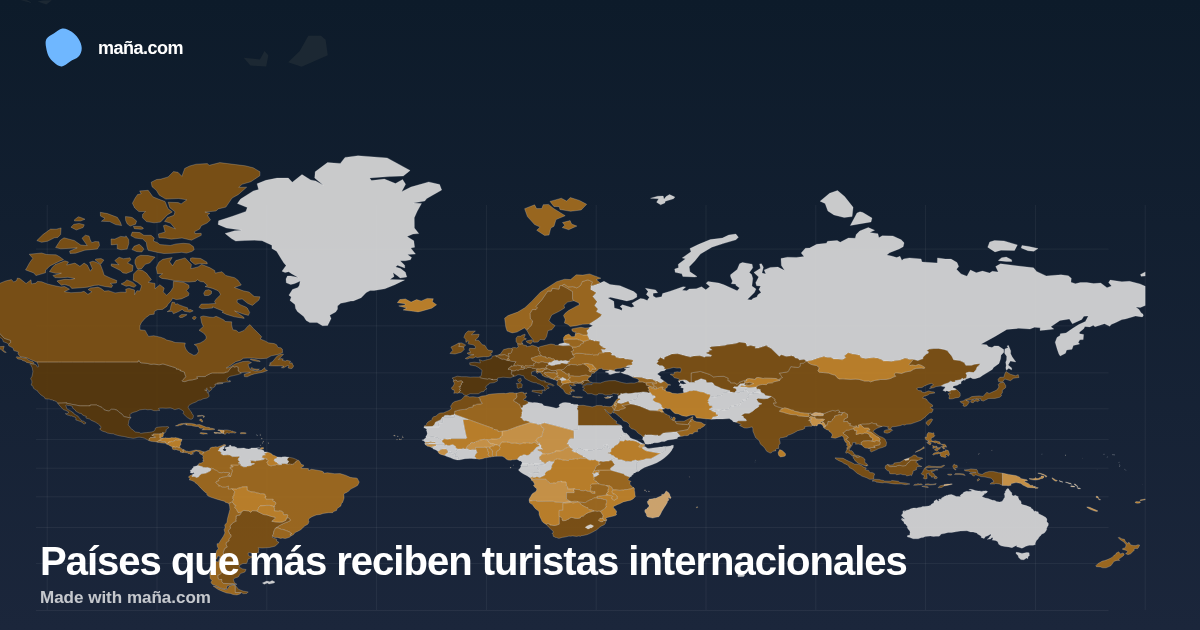
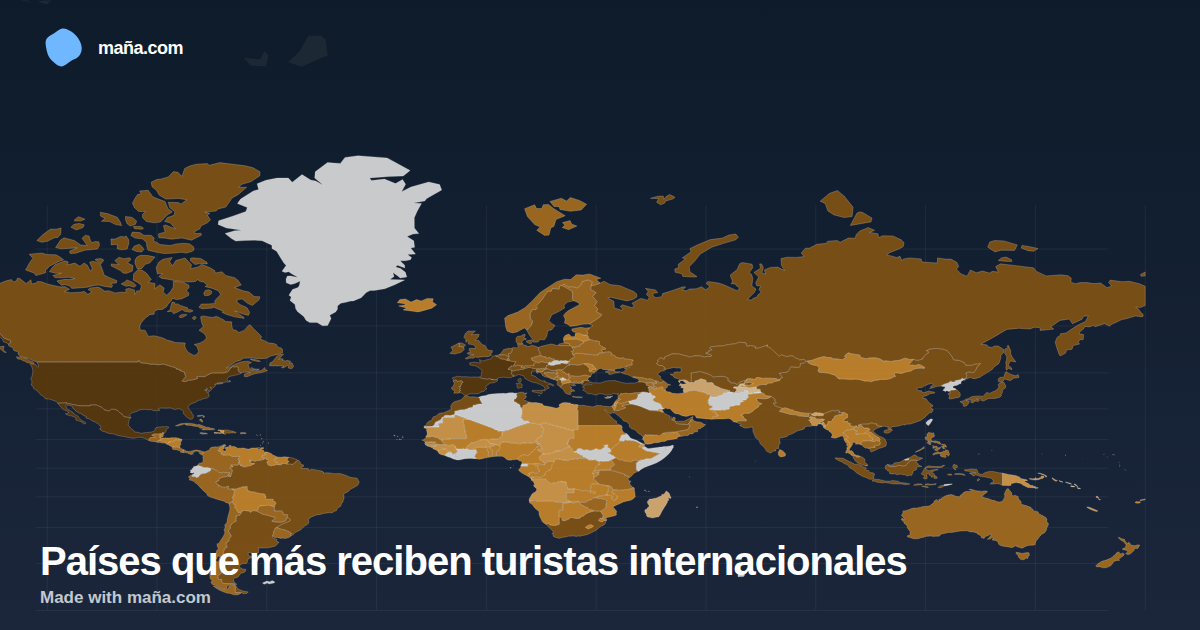
chore: generar landings estaticas y OG cards de mapas

diff --git a/gallery/tourism-arrivals-world/index.html b/gallery/tourism-arrivals-world/index.html
@@ -4,12 +4,12 @@
 <meta charset="utf-8">
 <meta name="viewport" content="width=device-width, initial-scale=1">
 <title>Países que más reciben turistas internacionales — Maña Maps</title>
-<meta name="description" content="Mapa coroplético mundial del número de turistas internacionales que recibe cada país, con datos de UN Tourism (OMT): Francia encabeza la lista con unos 100 millones de llegadas, seguida de España (85,2 millones) y Estados Unidos (66,3 millones). El dato de cada país corresponde al último año disponible entre 2019 y 2023, con la paleta ámbar ordenada por volumen de llegadas en escala logarítmica. El primer mapa de turismo de la galería: 165 países y territorios con cifras publicadas.">
+<meta name="description" content="Mapa coroplético mundial del número de turistas internacionales que recibe cada país, con datos de UN Tourism (OMT): Francia encabeza la lista con unos 102 millones de llegadas, seguida de España (93,8 millones) y Estados Unidos (72,4 millones). El dato de cada país corresponde al último año disponible entre 2019 y 2024, con la paleta ámbar ordenada por volumen de llegadas en escala logarítmica. El primer mapa de turismo de la galería: 185 países y territorios con cifras publicadas.">
 <link rel="canonical" href="https://maña.com/gallery/tourism-arrivals-world/">
 <meta property="og:type" content="article">
 <meta property="og:url" content="https://maña.com/gallery/tourism-arrivals-world/">
 <meta property="og:title" content="Países que más reciben turistas internacionales">
-<meta property="og:description" content="Mapa coroplético mundial del número de turistas internacionales que recibe cada país, con datos de UN Tourism (OMT): Francia encabeza la lista con unos 100 millones de llegadas, seguida de España (85,2 millones) y Estados Unidos (66,3 millones). El dato de cada país corresponde al último año disponible entre 2019 y 2023, con la paleta ámbar ordenada por volumen de llegadas en escala logarítmica. El primer mapa de turismo de la galería: 165 países y territorios con cifras publicadas.">
+<meta property="og:description" content="Mapa coroplético mundial del número de turistas internacionales que recibe cada país, con datos de UN Tourism (OMT): Francia encabeza la lista con unos 102 millones de llegadas, seguida de España (93,8 millones) y Estados Unidos (72,4 millones). El dato de cada país corresponde al último año disponible entre 2019 y 2024, con la paleta ámbar ordenada por volumen de llegadas en escala logarítmica. El primer mapa de turismo de la galería: 185 países y territorios con cifras publicadas.">
 <meta property="og:image" content="https://maña.com/og-cards/tourism-arrivals-world.png">
 <meta property="og:image:width" content="1200">
 <meta property="og:image:height" content="630">
@@ -17,13 +17,13 @@
 <meta property="og:site_name" content="Maña Maps">
 <meta name="twitter:card" content="summary_large_image">
 <meta name="twitter:title" content="Países que más reciben turistas internacionales">
-<meta name="twitter:description" content="Mapa coroplético mundial del número de turistas internacionales que recibe cada país, con datos de UN Tourism (OMT): Francia encabeza la lista con unos 100 millones de llegadas, seguida de España (85,2 millones) y Estados Unidos (66,3 millones). El dato de cada país corresponde al último año disponible entre 2019 y 2023, con la paleta ámbar ordenada por volumen de llegadas en escala logarítmica. El primer mapa de turismo de la galería: 165 países y territorios con cifras publicadas.">
+<meta name="twitter:description" content="Mapa coroplético mundial del número de turistas internacionales que recibe cada país, con datos de UN Tourism (OMT): Francia encabeza la lista con unos 102 millones de llegadas, seguida de España (93,8 millones) y Estados Unidos (72,4 millones). El dato de cada país corresponde al último año disponible entre 2019 y 2024, con la paleta ámbar ordenada por volumen de llegadas en escala logarítmica. El primer mapa de turismo de la galería: 185 países y territorios con cifras publicadas.">
 <meta name="twitter:image" content="https://maña.com/og-cards/tourism-arrivals-world.png">
 <meta name="robots" content="index, follow">
 <link rel="preconnect" href="https://fonts.googleapis.com">
 <link rel="preconnect" href="https://fonts.gstatic.com" crossorigin>
 <link rel="stylesheet" href="https://fonts.googleapis.com/css2?family=DM+Sans:wght@400;500;700;900&display=swap">
-<script type="application/ld+json">{"@context":"https://schema.org","@type":"Dataset","name":"Países que más reciben turistas internacionales","description":"Mapa coroplético mundial del número de turistas internacionales que recibe cada país, con datos de UN Tourism (OMT): Francia encabeza la lista con unos 100 millones de llegadas, seguida de España (85,2 millones) y Estados Unidos (66,3 millones). El dato de cada país corresponde al último año disponible entre 2019 y 2023, con la paleta ámbar ordenada por volumen de llegadas en escala logarítmica. El primer mapa de turismo de la galería: 165 países y territorios con cifras publicadas.","url":"https://maña.com/gallery/tourism-arrivals-world/","spatialCoverage":{"@type":"Place","name":"Mundo"},"creator":{"@type":"Organization","name":"Maña Maps","url":"https://maña.com"},"source":"UN Tourism (OMT) — Base de datos de estadísticas de turismo, indicador INBD_TRIP_TOTL_TOTL_TOUR (inbound trips, descarga de diciembre de 2025) + World Tourism Barometer 2023. Geometrías: Natural Earth (vía population-by-country). https://www.unwto.org/tourism-statistics · 2023-12-31","dateModified":"2026-10-13","keywords":["Turismo","Economía","Geografía"]}</script>
+<script type="application/ld+json">{"@context":"https://schema.org","@type":"Dataset","name":"Países que más reciben turistas internacionales","description":"Mapa coroplético mundial del número de turistas internacionales que recibe cada país, con datos de UN Tourism (OMT): Francia encabeza la lista con unos 102 millones de llegadas, seguida de España (93,8 millones) y Estados Unidos (72,4 millones). El dato de cada país corresponde al último año disponible entre 2019 y 2024, con la paleta ámbar ordenada por volumen de llegadas en escala logarítmica. El primer mapa de turismo de la galería: 185 países y territorios con cifras publicadas.","url":"https://maña.com/gallery/tourism-arrivals-world/","spatialCoverage":{"@type":"Place","name":"Mundo"},"creator":{"@type":"Organization","name":"Maña Maps","url":"https://maña.com"},"source":"UN Tourism (OMT) — Base de datos de estadísticas de turismo, indicador INBD_TRIP_TOTL_TOTL_TOUR (inbound trips, descarga de diciembre de 2025) + World Tourism Barometer (enero 2026, datos 2024). Geometrías: Natural Earth (vía population-by-country). https://www.unwto.org/tourism-statistics · 2024-12-31","dateModified":"2026-10-14","keywords":["Turismo","Economía","Geografía"]}</script>
 <style>
   :root{--sky:#0ea5e9;--ink:#111827;--muted:#6b7280;--line:#e5e7eb}
   *{box-sizing:border-box}
@@ -66,15 +66,15 @@
   </header>
   <main class="wrap">
     <h1>Países que más reciben turistas internacionales</h1>
-    <p class="lede">Mapa coroplético mundial del número de turistas internacionales que recibe cada país, con datos de UN Tourism (OMT): Francia encabeza la lista con unos 100 millones de llegadas, seguida de España (85,2 millones) y Estados Unidos (66,3 millones). El dato de cada país corresponde al último año disponible entre 2019 y 2023, con la paleta ámbar ordenada por volumen de llegadas en escala logarítmica. El primer mapa de turismo de la galería: 165 países y territorios con cifras publicadas.</p>
+    <p class="lede">Mapa coroplético mundial del número de turistas internacionales que recibe cada país, con datos de UN Tourism (OMT): Francia encabeza la lista con unos 102 millones de llegadas, seguida de España (93,8 millones) y Estados Unidos (72,4 millones). El dato de cada país corresponde al último año disponible entre 2019 y 2024, con la paleta ámbar ordenada por volumen de llegadas en escala logarítmica. El primer mapa de turismo de la galería: 185 países y territorios con cifras publicadas.</p>
     <a class="shot" href="/gallery/?slug=tourism-arrivals-world"><img src="/og-cards/tourism-arrivals-world.png" alt="Países que más reciben turistas internacionales" width="1200" height="630"></a>
-    <p class="meta">205 elementos · 2026-10-13</p>
+    <p class="meta">205 elementos · 2026-10-14</p>
     <div class="cta">
       <a class="btn btn-primary" href="/map/" onclick="if(window.trackEvent)window.trackEvent('cta_click',{target:'create_map',source:'static_map'})">Crea tu mapa gratis</a>
       <a class="btn btn-ghost" href="/gallery/?slug=tourism-arrivals-world" onclick="if(window.trackEvent)window.trackEvent('cta_click',{target:'interactive',source:'static_map'})">Abrir mapa interactivo</a>
       <a class="btn btn-ghost" href="https://twitter.com/intent/tweet?text=Pa%C3%ADses%20que%20m%C3%A1s%20reciben%20turistas%20internacionales%20%E2%80%94%20v%C3%ADa%20Ma%C3%B1a%20Maps&url=https%3A%2F%2Fma%C3%B1a.com%2Fgallery%2Ftourism-arrivals-world%2F" target="_blank" rel="noopener" onclick="if(window.trackEvent)window.trackEvent('share',{network:'x',source:'static_map'})">Compartir en X</a>
     </div>
-    <div class="source"><strong>Fuente de datos:</strong> UN Tourism (OMT) — Base de datos de estadísticas de turismo, indicador INBD_TRIP_TOTL_TOTL_TOUR (inbound trips, descarga de diciembre de 2025) + World Tourism Barometer 2023. Geometrías: Natural Earth (vía population-by-country). https://www.unwto.org/tourism-statistics · 2023-12-31</div>
+    <div class="source"><strong>Fuente de datos:</strong> UN Tourism (OMT) — Base de datos de estadísticas de turismo, indicador INBD_TRIP_TOTL_TOTL_TOUR (inbound trips, descarga de diciembre de 2025) + World Tourism Barometer (enero 2026, datos 2024). Geometrías: Natural Earth (vía population-by-country). https://www.unwto.org/tourism-statistics · 2024-12-31</div>
     <section class="related"><h2>Más mapas</h2><ul><li><a href="/gallery/most-populated-cities-world/">Ciudades más pobladas del mundo</a></li><li><a href="/gallery/tallest-waterfalls-world/">Las cascadas más altas del mundo</a></li><li><a href="/gallery/daily-steps-world/">Pasos medios diarios por país</a></li><li><a href="/gallery/urban-population-world/">Población urbana (% del total) mundial por país</a></li></ul></section>
   </main>
   <footer>

diff --git a/gallery/arrecifes-de-coral-fosas-oceanicas-y-naufragios-famosos-3172026-1785478772912/index.html b/gallery/arrecifes-de-coral-fosas-oceanicas-y-naufragios-famosos-3172026-1785478772912/index.html
@@ -23,7 +23,7 @@
 <link rel="preconnect" href="https://fonts.googleapis.com">
 <link rel="preconnect" href="https://fonts.gstatic.com" crossorigin>
 <link rel="stylesheet" href="https://fonts.googleapis.com/css2?family=DM+Sans:wght@400;500;700;900&display=swap">
-<script type="application/ld+json">{"@context":"https://schema.org","@type":"Dataset","name":"Arrecifes de coral, fosas oceánicas y naufragios famosos","description":"Arrecifes de coral, fosas oceánicas y naufragios famosos del mundo, con datos de profundidad y ubicación.","url":"https://maña.com/gallery/arrecifes-de-coral-fosas-oceanicas-y-naufragios-famosos-3172026-1785478772912/","spatialCoverage":{"@type":"Place","name":"Mundo"},"creator":{"@type":"Organization","name":"Maña Maps","url":"https://maña.com"},"source":"GEBCO/IHO · 2024","dateModified":"2026-09-01","keywords":["Naturaleza","Oc��anos"]}</script>
+<script type="application/ld+json">{"@context":"https://schema.org","@type":"Dataset","name":"Arrecifes de coral, fosas oceánicas y naufragios famosos","description":"Arrecifes de coral, fosas oceánicas y naufragios famosos del mundo, con datos de profundidad y ubicación.","url":"https://maña.com/gallery/arrecifes-de-coral-fosas-oceanicas-y-naufragios-famosos-3172026-1785478772912/","spatialCoverage":{"@type":"Place","name":"Mundo"},"creator":{"@type":"Organization","name":"Maña Maps","url":"https://maña.com"},"source":"GEBCO/IHO · 2024","dateModified":"2026-09-01","keywords":["Naturaleza","Océanos"]}</script>
 <style>
   :root{--sky:#0ea5e9;--ink:#111827;--muted:#6b7280;--line:#e5e7eb}
   *{box-sizing:border-box}
